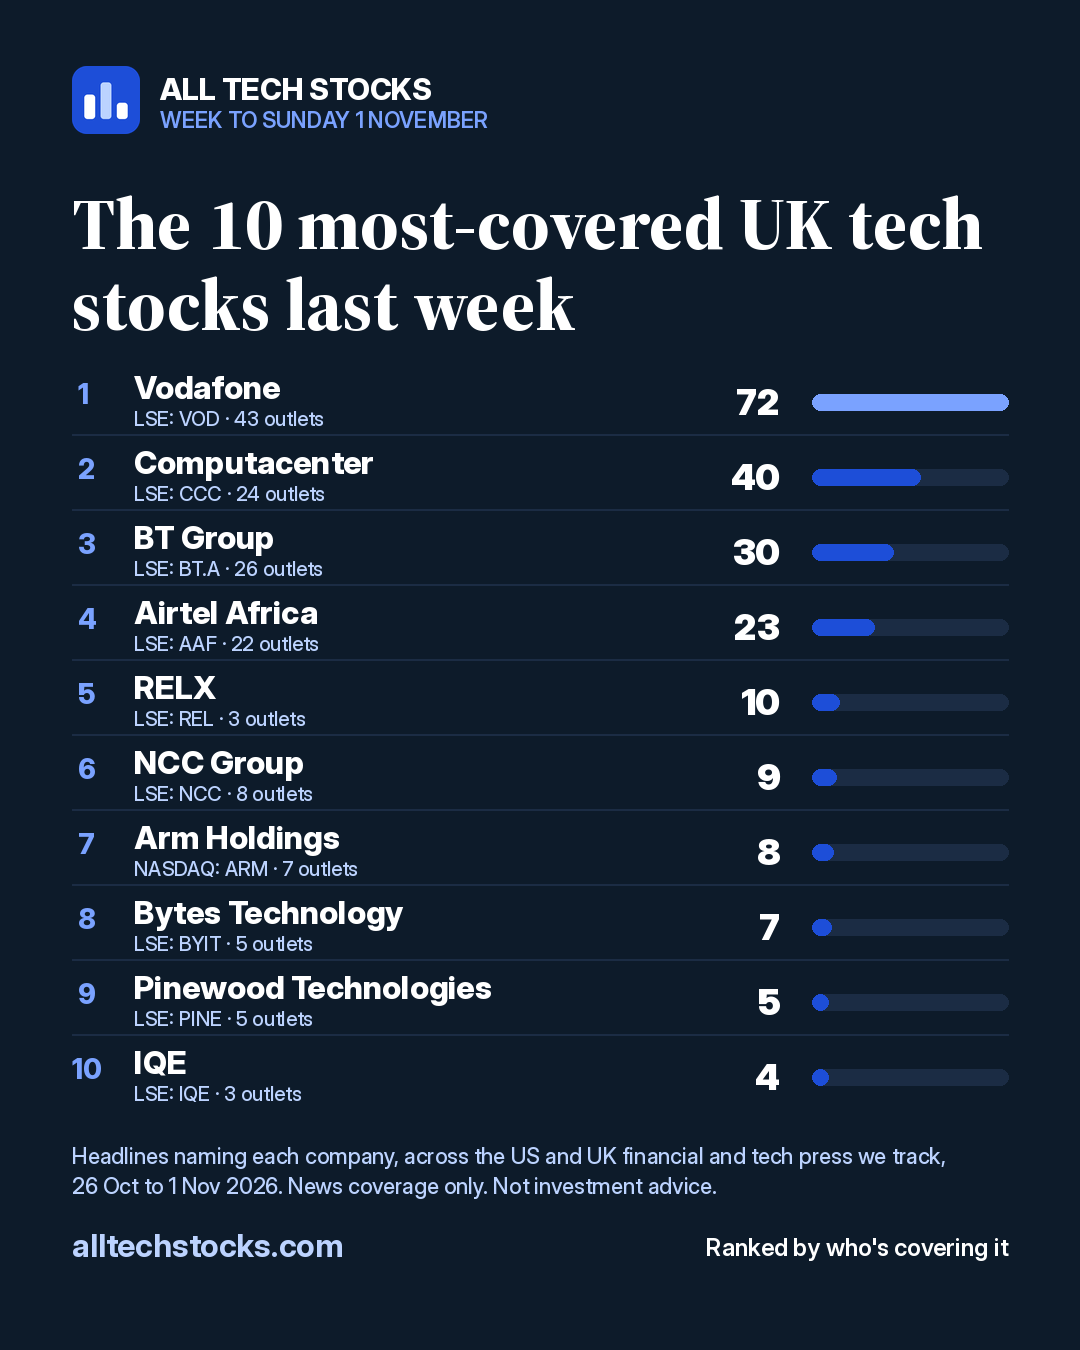
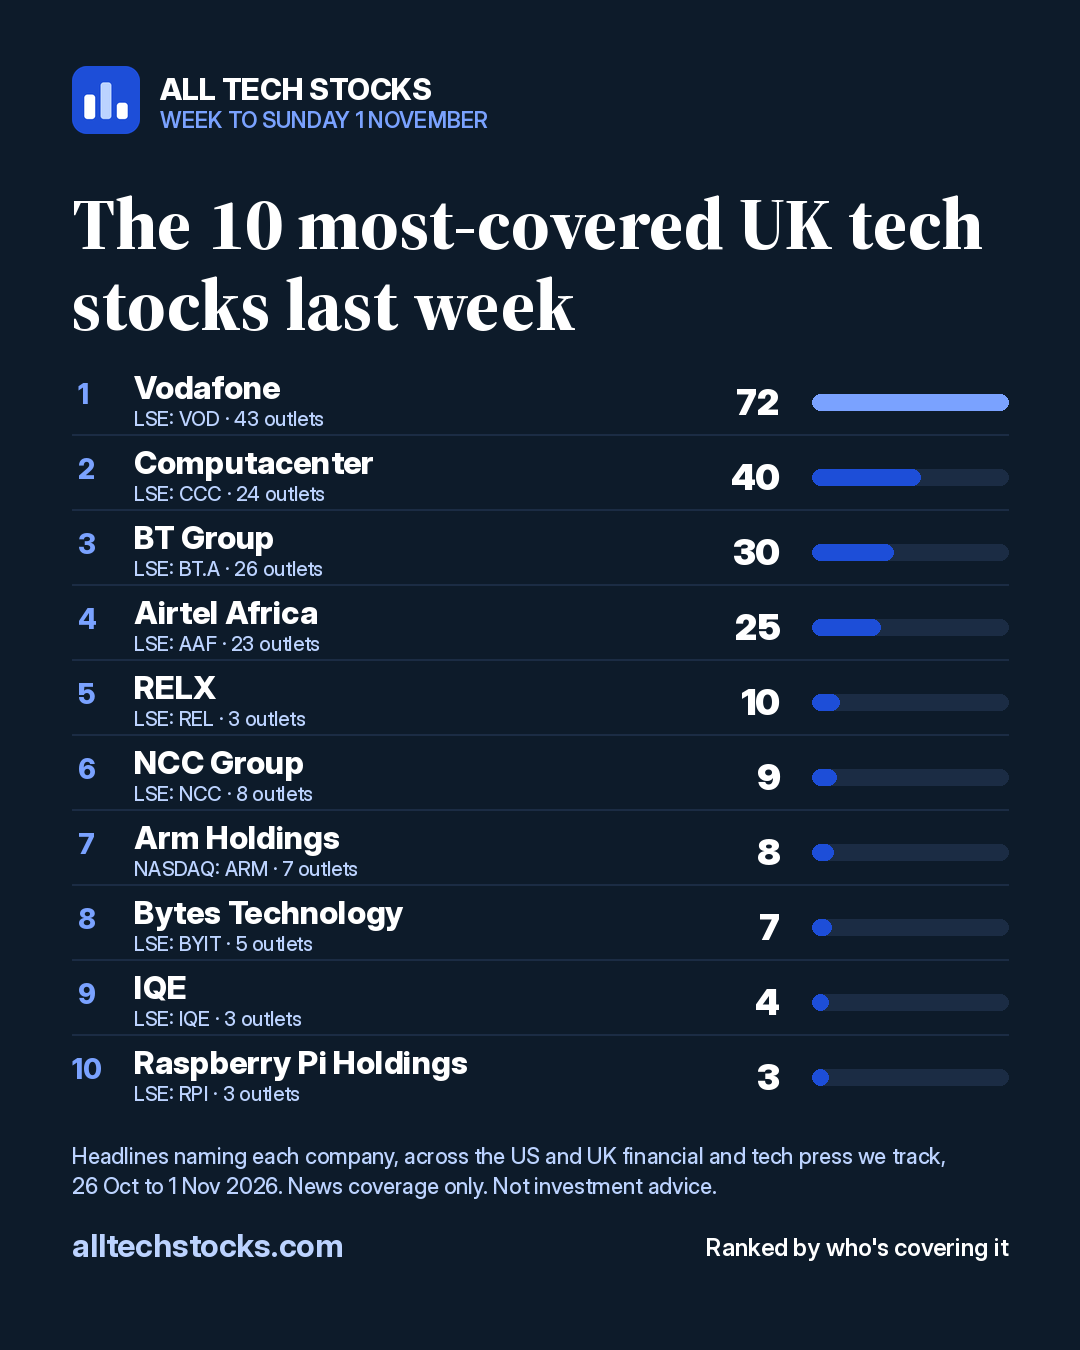
Watchlist: remove Pinewood Technologies and 1Spatial, both taken private
Claude-Session: https://claude.ai/code/session_01Wgur947LbmuJhBzfK44Hrm

diff --git a/README.md b/README.md
@@ -150,7 +150,7 @@ Settings under `linkedin:` in `config/rules.yaml`, code in `engine/linkedin.py`.
 
 ## The watchlist
 
-`config/watchlist.yaml` has 124 stocks: 86 US, 38 UK. Add or remove any. Each needs a symbol,
+`config/watchlist.yaml` has 122 stocks: 86 US, 36 UK. Add or remove any. Each needs a symbol,
 exchange (NASDAQ, NYSE or LSE), name and the aliases that should tag a story. Names that are also
 everyday words ("Arm", "Meta", "Oracle", "Sage") go under `exact` so only the capitalised form matches.
 Put quotes round tickers YAML reads as words, like `"ON"`. Add `results: 2026-11-19` to show a
